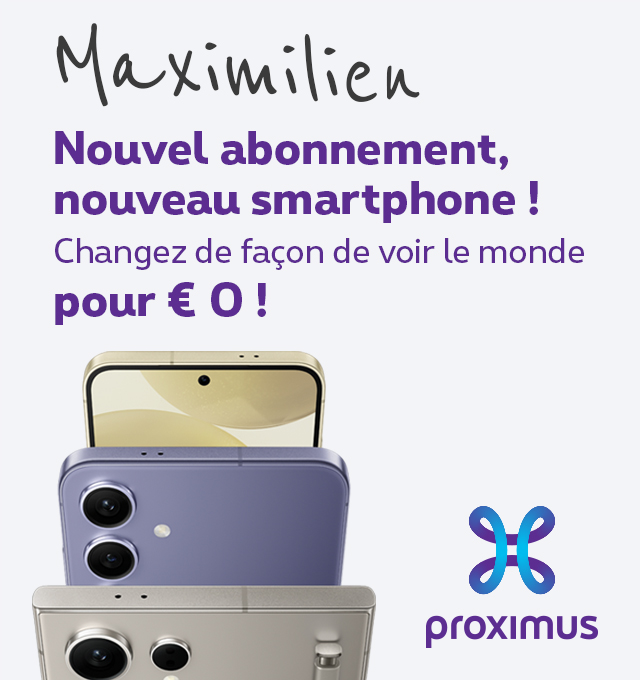
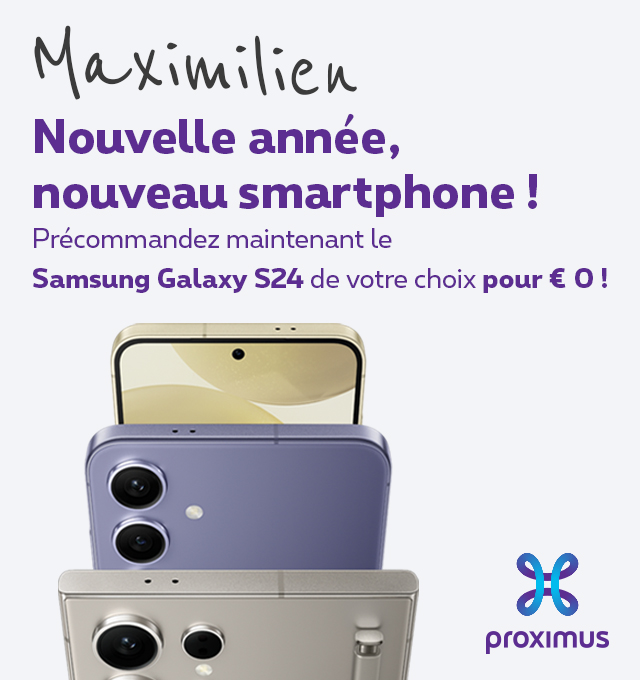
Eureka_3.0

Changed region(s): [[0.0312, 0.0309, 0.9688, 1.0], [0.2812, 0.7412, 0.3125, 0.7721]]

diff --git a/Eureka_Contest-Preordering/Pre-ordering_RES/index-fr.html b/Eureka_Contest-Preordering/Pre-ordering_RES/index-fr.html
@@ -3,7 +3,7 @@
 <html xmlns="http://www.w3.org/1999/xhtml" xmlns:v="urn:schemas-microsoft-com:vml" xmlns:o="urn:schemas-microsoft-com:office:office">
   <head>
     <title>
-      %first_name ou rien%, obtenez le Samsung Galaxy Ultra, S24 ou S24+ &agrave; partir de &euro; 0 !
+      %first_name ou rien%, obtenez le Samsung Galaxy S24 Ultra, S24 ou S24+ &agrave; partir de &euro; 0 !
     </title>
     <!--[if !mso]><!-->
     <meta http-equiv="X-UA-Compatible" content="IE=edge">
@@ -142,7 +142,7 @@
     <div style="background-color:#ffffff;">
       
       <div style="display: none; max-height: 0px; overflow: hidden;">
-        %first_name ou rien%, obtenez le Samsung Galaxy Ultra, S24 ou S24+ &agrave; partir de &euro; 0 !
+        %first_name ou rien%, obtenez le Samsung Galaxy S24 Ultra, S24 ou S24+ &agrave; partir de &euro; 0 !
         &nbsp;&zwnj;&nbsp;&zwnj;&nbsp;&zwnj;&nbsp;&zwnj;&nbsp;&zwnj;&nbsp;&zwnj;&nbsp;&zwnj;&nbsp;&zwnj;&nbsp;&zwnj;&nbsp;&zwnj;&nbsp;&zwnj;&nbsp;&zwnj;&nbsp;&zwnj;&nbsp;
       </div>
     
@@ -160,10 +160,40 @@
                       <tr>
                         <td align="left" style="font-size:0px;padding:0;word-break:break-word;">
                           <div style="font-family:Verdana, sans-serif;font-size:12px;line-height:16px;text-align:left;color:#000000;">
-                            %first_name ou rien%, obtenez le Samsung Galaxy Ultra, S24 ou S24+ &agrave; partir de &euro; 0 !
+                            %first_name ou rien%, obtenez le Samsung Galaxy S24 Ultra, S24 ou S24+ &agrave; partir de &euro; 0 !
                             <br>
                             E-mail illisible ? <a href="#SPCLICKTOVIEW" name="_SPCLICKTOVIEW" style="text-decoration: underline; color: #5d308e;" xt="SPCLICKTOVIEW">Lisez cet e-mail en ligne.</a>
                             <br>
+                          </div>
+                        </td>
+                      </tr>
+                    </tbody>
+                  </table>
+                </div>
+                <!--[if mso | IE]></td></tr></table><![endif]-->
+              </td>
+            </tr>
+          </tbody>
+        </table>
+      </div>
+
+      <!--PRE-HEADER-->
+      <!--[if mso | IE]></td></tr></table><table align="center" border="0" cellpadding="0" cellspacing="0" class="" role="presentation" style="width:600px;" width="600" bgcolor="#EEEAF4" ><tr><td style="line-height:0px;font-size:0px;mso-line-height-rule:exactly;"><![endif]-->
+      <div style="background:#EEEAF4;background-color:#EEEAF4;margin:0px auto;max-width:600px;">
+        <table align="center" border="0" cellpadding="0" cellspacing="0" role="presentation" style="background:#EEEAF4;background-color:#EEEAF4;width:100%;">
+          <tbody>
+            <tr>
+              <td style="direction:ltr;font-size:0px;padding:15px 0;text-align:center;">
+                <!--[if mso | IE]><table role="presentation" border="0" cellpadding="0" cellspacing="0"><tr><td class="" style="vertical-align:top;width:600px;" ><![endif]-->
+                <div class="mj-column-per-100 mj-outlook-group-fix" style="font-size:0px;text-align:left;direction:ltr;display:inline-block;vertical-align:top;width:100%;">
+                  <table border="0" cellpadding="0" cellspacing="0" role="presentation" style="vertical-align:top;" width="100%">
+                    <tbody>
+                      <tr>
+                        <td align="center" style="font-size:0px;padding:0;word-break:break-word;">
+                          <div style="font-family:Verdana, sans-serif;font-size:14px;line-height:24px;text-align:center;color:#5C2D91;">
+                            <strong style="text-align:center!important;font-size:17px;">
+                              Pr&eacute;commandez maintenant le nouveau Samsung Galaxy !
+                            </strong>
                           </div>
                         </td>
                       </tr>
@@ -271,7 +301,7 @@
                       <tr>
                         <td align="left" style="font-size:0px;padding:20px 0 0 0;word-break:break-word;">
                           <div style="font-family:Verdana, sans-serif;font-size:14px;line-height:24px;text-align:left;color:#000000;">
-                            Vous &ecirc;tes sur le point d&rsquo;entrer de plein fouet dans la galaxie Samsung. Jusqu&rsquo;au 19/02 inclus, choisissez l&rsquo;abonnement Proximus qui vous ressemble et &eacute;changez votre ancien mobile contre <strong>un Samsung Galaxy nouvelle g&eacute;n&eacute;ration &agrave; &euro; 0 !</strong> Nouvelle fa&ccedil;on de photographier, de communiquer, de jouer, dur&eacute;e de vie de la batterie optimis&eacute;e et surtout... <strong>Une IA dernier cri pour vous assister.</strong> Avec le Galaxy S24, S24+ et Ultra, le futur est entre vos mains %first_name ou rien%,. Le plus dur sera de choisir !
+                            Vous &ecirc;tes sur le point d&rsquo;entrer de plein fouet dans la galaxie Samsung. Jusqu&rsquo;au 19/02 inclus, choisissez l&rsquo;abonnement Proximus qui vous ressemble et &eacute;changez votre ancien GSM contre <strong>un Samsung Galaxy nouvelle g&eacute;n&eacute;ration &agrave; &euro; 0 !</strong> Nouvelle fa&ccedil;on de photographier, de communiquer, de jouer, dur&eacute;e de vie de la batterie optimis&eacute;e et surtout... <strong>Une IA dernier cri pour vous assister.</strong> Avec le Galaxy S24, S24+ et Ultra, le futur est entre vos mains %first_name ou rien%,. Le plus dur sera de choisir !
                           </div>
                         </td>
                       </tr>
@@ -840,7 +870,7 @@
                       <tbody>
                         <tr>
                           <td align="left" style="font-size:0px;padding:0px 0 12px 0;word-break:break-word;">
-                            <div style="font-family:Verdana, sans-serif;font-size:10px;line-height:14px;text-align:left;color:#ffffff;">Tous droits r&eacute;serv&eacute;s, ©&nbsp;<a href="https://www.proximus.com/fr/our-company/our-profile.html" style="color: #ffffff; text-decoration: underline;" name="copyright" target="_blank">2023&nbsp;Proximus</a>
+                            <div style="font-family:Verdana, sans-serif;font-size:10px;line-height:14px;text-align:left;color:#ffffff;">Tous droits r&eacute;serv&eacute;s, ©&nbsp;<a href="https://www.proximus.com/fr/our-company/our-profile.html" style="color: #ffffff; text-decoration: underline;" name="copyright" target="_blank">2024&nbsp;Proximus</a>
                               <br>
                               <br>
                               <a href="https://go.proximus.com/res_edms_optout_fr/fr/" name style="color: #ffffff; text-decoration: underline;" target="_blank">Se d&eacute;sinscrire</a>

diff --git a/Eureka_Contest-Preordering/Contest_RES/index-fr.html b/Eureka_Contest-Preordering/Contest_RES/index-fr.html
@@ -193,12 +193,12 @@
                           <table cellpadding="0" cellspacing="0" width="100%" border="0" style="color:#000000;font-family:Verdana, sans-serif;font-size:13px;line-height:auto;table-layout:auto;width:100%;border:none;">
                             <tr>
                               <td align="center">
-                                <a href="https://www.proximus.be/fr/id_cr_fiber/particuliers/abonnements-internet-pour-tous/la-fibre-optique-debarque-chez-vous.html?v1=email&v4=information&v6=Onboarding&V7=POB_MVP1" target="_blank" style="border: none; color: #3c3d3c; font-family: Arial, Helvetica, sans-serif; font-size: 25px;">
+                                <a href="https://www.proximus.be/fr/id_f_cr_contest_launch_eureka/particuliers/r-orphans/forms/festivals/contest-launch-eureka.html?v1=email&v4=acquisition&v6=release_eureka&V7=res-samsung_contest" target="_blank" style="border: none; color: #3c3d3c; font-family: Arial, Helvetica, sans-serif; font-size: 25px;">
                                   <!--Desktop-->
-                                  <img name="HEADER_FR" src="images/header.jpg" alt="" style="width: 100%; height: auto; border: 0; display: block; max-width:100%;" class="hidden">
+                                  <img name="HEADER_FR" src="images/header.jpg" alt="Samsung Galaxy Unpacked" style="width: 100%; height: auto; border: 0; display: block; max-width:100%;" class="hidden">
                                   <!--Mobile-->
                                   <span style="mso-hide:all;font-size: 0px;">
-                                    <img src="images/header_mob_fr.jpg" alt="" class="show" style="mso-hide:all;  display: none; overflow:hidden; float: left; vertical-aling: left; width: 0; height: 0; display: none; line-height: 0; visibility: hidden; font-size: 28px; line-height: 28px; display: block; font-family: Arial, Helvetica, sans-serif; text-align: center; font-weight: bold; color:#ffffff;">
+                                    <img src="images/header_mob.jpg" alt="Samsung Galaxy Unpacked" class="show" style="mso-hide:all;  display: none; overflow:hidden; float: left; vertical-aling: left; width: 0; height: 0; display: none; line-height: 0; visibility: hidden; font-size: 28px; line-height: 28px; display: block; font-family: Arial, Helvetica, sans-serif; text-align: center; font-weight: bold; color:#ffffff;">
                                   </span>
                                 </a>
                               </td>
@@ -273,9 +273,9 @@
                       <tr>
                         <td align="left" style="font-size:0px;padding:20px 0 0 0;word-break:break-word;">
                           <div style="font-family:Verdana, sans-serif;font-size:14px;line-height:24px;text-align:left;color:#000000;">
-                            <span style="letter-spacing: -.02rem;">Pour commencer l&rsquo;ann&eacute;e en beaut&eacute;, quoi de plus palpitant que de jouer ?! Participez vite &agrave; <strong style="color: #5C2D91;"><a href="https://www.proximus.be/fr/id_f_cr_contest_launch_eureka/particuliers/r-orphans/forms/festivals/contest-launch-eureka.html?v1=email&v4=acquisition&v6=release_eureka&V7=res-samsung_contest" target="_blank" style="color: #5C2D91;">notre grand concours</a>&ast;</strong> et tentez de remporter l&rsquo;un des trois mod&egrave;les de la nouvelle g&eacute;n&eacute;ration de <strong>smartphones Samsung</strong>. Ni plus, ni moins !
+                            <span style="letter-spacing: -.02rem;">Pour commencer l&rsquo;ann&eacute;e en beaut&eacute;, quoi de plus palpitant que de jouer ?! Participez vite &agrave; <strong style="color: #5C2D91;"><a href="https://www.proximus.be/fr/id_f_cr_contest_launch_eureka/particuliers/r-orphans/forms/festivals/contest-launch-eureka.html?v1=email&v4=acquisition&v6=release_eureka&V7=res-samsung_contest" target="_blank" style="color: #5C2D91;">notre grand concours</a>&ast;</strong> et tentez de remporter l&rsquo;un des trois mod&egrave;les de la nouvelle g&eacute;n&eacute;ration de <strong>smartphones Samsung</strong>. &Agrave; ne pas manquer !
                             <br><br>
-                            De quoi arborer un beau sourire d&egrave;s la rentr&eacute;e et le garder pour toute l&rsquo;ann&eacute;e :&rpar;.
+                            De quoi arborer un beau sourire en janvier et le garder pour toute l&rsquo;ann&eacute;e :&rpar;.
                             </span>
                           </div>
                         </td>
@@ -486,7 +486,7 @@
                       <tr>
                         <td align="left" style="font-size:0px;padding:8px 0;word-break:break-word;">
                           <div style="font-family:Verdana, sans-serif;font-size:10px;line-height:14px;text-align:left;color:#000000;">
-                            &ast; Concours organis&eacute; du 10/01/2024 au 16/01/2024 inclus. Infos et conditions sur <a href="https://www.proximus.be/fr" target="_blank" style="text-decoration: underline; color: #5c2d91 ">proximus.be</a>
+                            &ast; Concours organis&eacute; du 10/01/2024 au 16/01/2024 inclus. Infos et conditions sur <a href="https://www.proximus.be/fr/id_f_cr_contest_launch_eureka/particuliers/r-orphans/forms/festivals/contest-launch-eureka.html?v1=email&v4=acquisition&v6=release_eureka&V7=res-samsung_contest" target="_blank" style="text-decoration: underline; color: #5c2d91 ">proximus.be</a>
                           </div>
                         </td>
                       </tr>
@@ -515,7 +515,7 @@
                       <tbody>
                         <tr>
                           <td align="left" style="font-size:0px;padding:0px 0 12px 0;word-break:break-word;">
-                            <div style="font-family:Verdana, sans-serif;font-size:10px;line-height:14px;text-align:left;color:#ffffff;">Tous droits r&eacute;serv&eacute;s, ©&nbsp;<a href="https://www.proximus.com/fr/our-company/our-profile.html" style="color: #ffffff; text-decoration: underline;" name="copyright" target="_blank">2023&nbsp;Proximus</a>
+                            <div style="font-family:Verdana, sans-serif;font-size:10px;line-height:14px;text-align:left;color:#ffffff;">Tous droits r&eacute;serv&eacute;s, ©&nbsp;<a href="https://www.proximus.com/fr/our-company/our-profile.html" style="color: #ffffff; text-decoration: underline;" name="copyright" target="_blank">2024&nbsp;Proximus</a>
                               <br>
                               <br>
                               <a href="https://go.proximus.com/res_edms_optout_fr/fr/" name style="color: #ffffff; text-decoration: underline;" target="_blank">Se d&eacute;sinscrire</a>

diff --git a/Eureka_Contest-Preordering/Contest_RES/index-nl.html b/Eureka_Contest-Preordering/Contest_RES/index-nl.html
@@ -212,41 +212,44 @@
       </table>
     </div>
 
-    <!--Header-->
-    <!--[if mso | IE]></td></tr></table><table align="center" border="0" cellpadding="0" cellspacing="0" class="" role="presentation" style="width:600px;" width="600" ><tr><td style="line-height:0px;font-size:0px;mso-line-height-rule:exactly;"><![endif]-->
-    <div style="margin:0px auto;max-width:600px;">
-      <table align="center" border="0" cellpadding="0" cellspacing="0" role="presentation" style="width:100%;border-radius: 20px;">
-        <tbody>
-          <tr>
-            <td style="direction:ltr;font-size:0px;padding:0px;text-align:center;border-radius: 20px;">
-              <!--[if mso | IE]><table role="presentation" border="0" cellpadding="0" cellspacing="0"><tr><td class="" style="vertical-align:top;width:600px;" ><![endif]-->
-              <div class="mj-column-per-100 mj-outlook-group-fix" style="font-size:0px;text-align:left;direction:ltr;display:inline-block;vertical-align:top;width:100%;">
-                <table border="0" cellpadding="0" cellspacing="0" role="presentation" style="vertical-align:top;" width="100%">
-                  <tbody>
-                    <tr>
-                      <td align="center" style="font-size:0px;padding:0;word-break:break-word;">
-                        <table border="0" cellpadding="0" cellspacing="0" role="presentation" style="border-collapse:collapse;border-spacing:0px;border-radius: 20px;">
-                          <tbody>
-                            <tr>
-                              <td style="width:600px;border-radius: 20px;">
-                                <a href="https://www.proximus.be/nl/id_cr_samsung-galaxy-z-flip-5-512gb-graphite.html?v1=email&v4=acquisition&v6=release_samsungZflipfold&V7=res-samsungZflipfold" name="HEADER_RES_NORMAL_NL" target="_blank">
-                                  <img alt="Reserveer je Samsung Galaxy Z Flip5 bij Proximus !" height="auto" src="images/samsung-flip_header_nl.gif" style="border:0;display:block;outline:none;text-decoration:none;height:auto;width:100%;font-size:13px;border-radius: 20px;" width="600">
-                                </a>
-                              </td>
-                            </tr>
-                          </tbody>
-                        </table>
-                      </td>
-                    </tr>
-                  </tbody>
-                </table>
-              </div>
-              <!--[if mso | IE]></td></tr></table><![endif]-->
-            </td>
-          </tr>
-        </tbody>
-      </table>
-    </div>
+    <!--HEADER-->
+      <!--[if mso | IE]></td></tr></table><table align="center" border="0" cellpadding="0" cellspacing="0" class="" role="presentation" style="width:600px;" width="600" ><tr><td style="line-height:0px;font-size:0px;mso-line-height-rule:exactly;"><![endif]-->
+        <div style="margin:0px auto;max-width:600px;">
+          <table align="center" border="0" cellpadding="0" cellspacing="0" role="presentation" style="width:100%;">
+            <tbody>
+              <tr>
+                <td style="direction:ltr;font-size:0px;padding:0 0;text-align:center;">
+                  <!--[if mso | IE]><table role="presentation" border="0" cellpadding="0" cellspacing="0"><tr><td class="" style="vertical-align:top;width:600px;" ><![endif]-->
+                  <div class="mj-column-per-100 mj-outlook-group-fix" style="font-size:0px;text-align:left;direction:ltr;display:inline-block;vertical-align:top;width:100%;">
+                    <table border="0" cellpadding="0" cellspacing="0" role="presentation" style="vertical-align:top;" width="100%">
+                      <tbody>
+                        <tr>
+                          <td align="left" style="font-size:0px;padding:0;word-break:break-word;">
+                            <table cellpadding="0" cellspacing="0" width="100%" border="0" style="color:#000000;font-family:Verdana, sans-serif;font-size:13px;line-height:auto;table-layout:auto;width:100%;border:none;">
+                              <tr>
+                                <td align="center">
+                                  <a href="https://www.proximus.be/nl/id_f_cr_contest_launch_eureka/particulieren/r-orphans/forms/festivals/contest-launch-eureka.html?v1=email&v4=acquisition&v6=release_eureka&V7=res-samsung_contest" target="_blank" style="border: none; color: #3c3d3c; font-family: Arial, Helvetica, sans-serif; font-size: 25px;">
+                                    <!--Desktop-->
+                                    <img name="HEADER_FR" src="images/header.jpg" alt="" style="width: 100%; height: auto; border: 0; display: block; max-width:100%;" class="hidden">
+                                    <!--Mobile-->
+                                    <span style="mso-hide:all;font-size: 0px;">
+                                      <img src="images/header_mob_fr.jpg" alt="" class="show" style="mso-hide:all;  display: none; overflow:hidden; float: left; vertical-aling: left; width: 0; height: 0; display: none; line-height: 0; visibility: hidden; font-size: 28px; line-height: 28px; display: block; font-family: Arial, Helvetica, sans-serif; text-align: center; font-weight: bold; color:#ffffff;">
+                                    </span>
+                                  </a>
+                                </td>
+                              </tr>
+                            </table>
+                          </td>
+                        </tr>
+                      </tbody>
+                    </table>
+                  </div>
+                  <!--[if mso | IE]></td></tr></table><![endif]-->
+                </td>
+              </tr>
+            </tbody>
+          </table>
+        </div>
 
     <!--Spacer 30-->
     <!--[if mso | IE]></td></tr></table><table align="center" border="0" cellpadding="0" cellspacing="0" class="" role="presentation" style="width:600px;" width="600" ><tr><td style="line-height:0px;font-size:0px;mso-line-height-rule:exactly;"><![endif]-->

diff --git a/Eureka_Contest-Preordering/Pre-ordering_SE/index-fr.html b/Eureka_Contest-Preordering/Pre-ordering_SE/index-fr.html
@@ -175,6 +175,36 @@
         </table>
       </div>
 
+      <!--PRE-HEADER-->
+      <!--[if mso | IE]></td></tr></table><table align="center" border="0" cellpadding="0" cellspacing="0" class="" role="presentation" style="width:600px;" width="600" bgcolor="#EEEAF4" ><tr><td style="line-height:0px;font-size:0px;mso-line-height-rule:exactly;"><![endif]-->
+      <div style="background:#EEEAF4;background-color:#EEEAF4;margin:0px auto;max-width:600px;">
+        <table align="center" border="0" cellpadding="0" cellspacing="0" role="presentation" style="background:#EEEAF4;background-color:#EEEAF4;width:100%;">
+          <tbody>
+            <tr>
+              <td style="direction:ltr;font-size:0px;padding:15px 0;text-align:center;">
+                <!--[if mso | IE]><table role="presentation" border="0" cellpadding="0" cellspacing="0"><tr><td class="" style="vertical-align:top;width:600px;" ><![endif]-->
+                <div class="mj-column-per-100 mj-outlook-group-fix" style="font-size:0px;text-align:left;direction:ltr;display:inline-block;vertical-align:top;width:100%;">
+                  <table border="0" cellpadding="0" cellspacing="0" role="presentation" style="vertical-align:top;" width="100%">
+                    <tbody>
+                      <tr>
+                        <td align="center" style="font-size:0px;padding:0;word-break:break-word;">
+                          <div style="font-family:Verdana, sans-serif;font-size:14px;line-height:24px;text-align:center;color:#5C2D91;">
+                            <strong style="text-align:center!important;font-size:17px;">
+                              Pr&eacute;commandez maintenant le nouveau Samsung Galaxy !
+                            </strong>
+                          </div>
+                        </td>
+                      </tr>
+                    </tbody>
+                  </table>
+                </div>
+                <!--[if mso | IE]></td></tr></table><![endif]-->
+              </td>
+            </tr>
+          </tbody>
+        </table>
+      </div>
+
       <!--HEADER-->
       <!--[if mso | IE]></td></tr></table><table align="center" border="0" cellpadding="0" cellspacing="0" class="" role="presentation" style="width:600px;" width="600" ><tr><td style="line-height:0px;font-size:0px;mso-line-height-rule:exactly;"><![endif]-->
       <div style="margin:0px auto;max-width:600px;">
@@ -838,7 +868,7 @@
                       <tbody>
                         <tr>
                           <td align="left" style="font-size:0px;padding:0px 0 12px 0;word-break:break-word;">
-                            <div style="font-family:Verdana, sans-serif;font-size:10px;line-height:14px;text-align:left;color:#ffffff;">Tous droits r&eacute;serv&eacute;s, ©&nbsp;<a href="https://www.proximus.com/fr/our-company/our-profile.html" style="color: #ffffff; text-decoration: underline;" name="copyright" target="_blank">2023&nbsp;Proximus</a>
+                            <div style="font-family:Verdana, sans-serif;font-size:10px;line-height:14px;text-align:left;color:#ffffff;">Tous droits r&eacute;serv&eacute;s, ©&nbsp;<a href="https://www.proximus.com/fr/our-company/our-profile.html" style="color: #ffffff; text-decoration: underline;" name="copyright" target="_blank">2024&nbsp;Proximus</a>
                               <br>
                               <br>
                               <a href="https://go.proximus.com/res_edms_optout_fr/fr/" name style="color: #ffffff; text-decoration: underline;" target="_blank">Se d&eacute;sinscrire</a>

diff --git a/PostOnboarding-communications_RES/Fiber/index-fr.html b/PostOnboarding-communications_RES/Fiber/index-fr.html
@@ -125,7 +125,7 @@
         </table>
       </div>
 
-      <!--Les 5 avantages de votre internet ultra-rapide-->
+      <!--PRE-HEADER-->
       <!--[if mso | IE]></td></tr></table><table align="center" border="0" cellpadding="0" cellspacing="0" class="" role="presentation" style="width:600px;" width="600" bgcolor="#EEEAF4" ><tr><td style="line-height:0px;font-size:0px;mso-line-height-rule:exactly;"><![endif]-->
       <div style="background:#EEEAF4;background-color:#EEEAF4;margin:0px auto;max-width:600px;">
         <table align="center" border="0" cellpadding="0" cellspacing="0" role="presentation" style="background:#EEEAF4;background-color:#EEEAF4;width:100%;">
